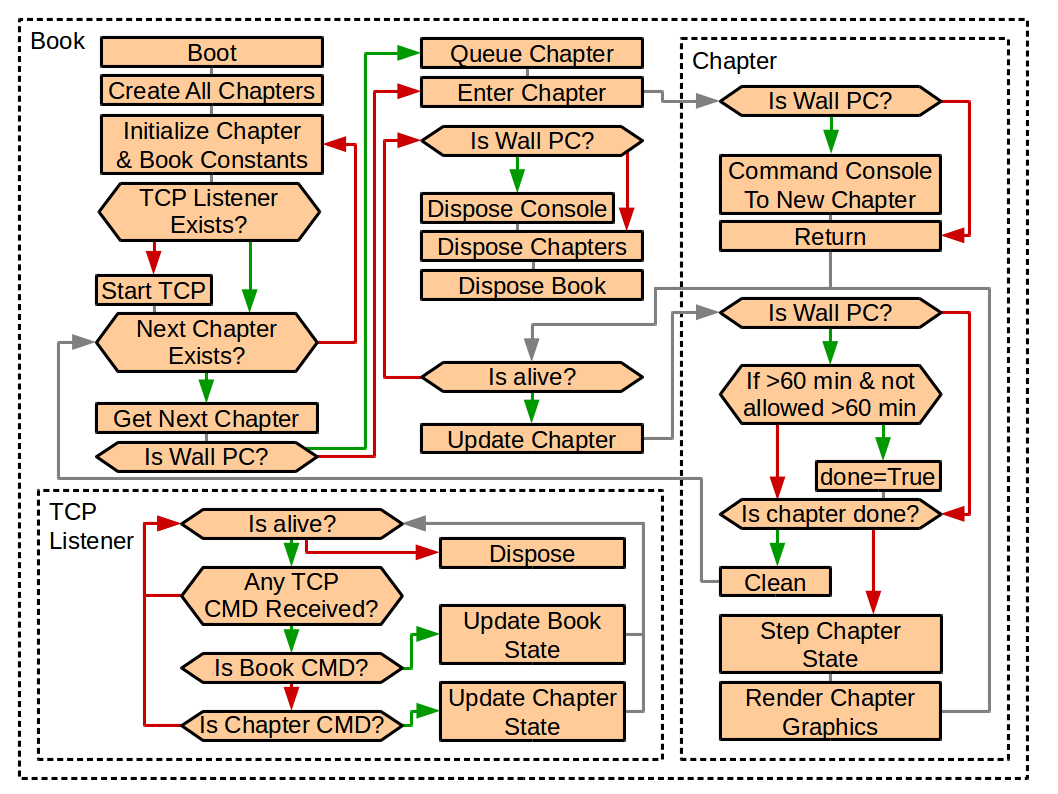
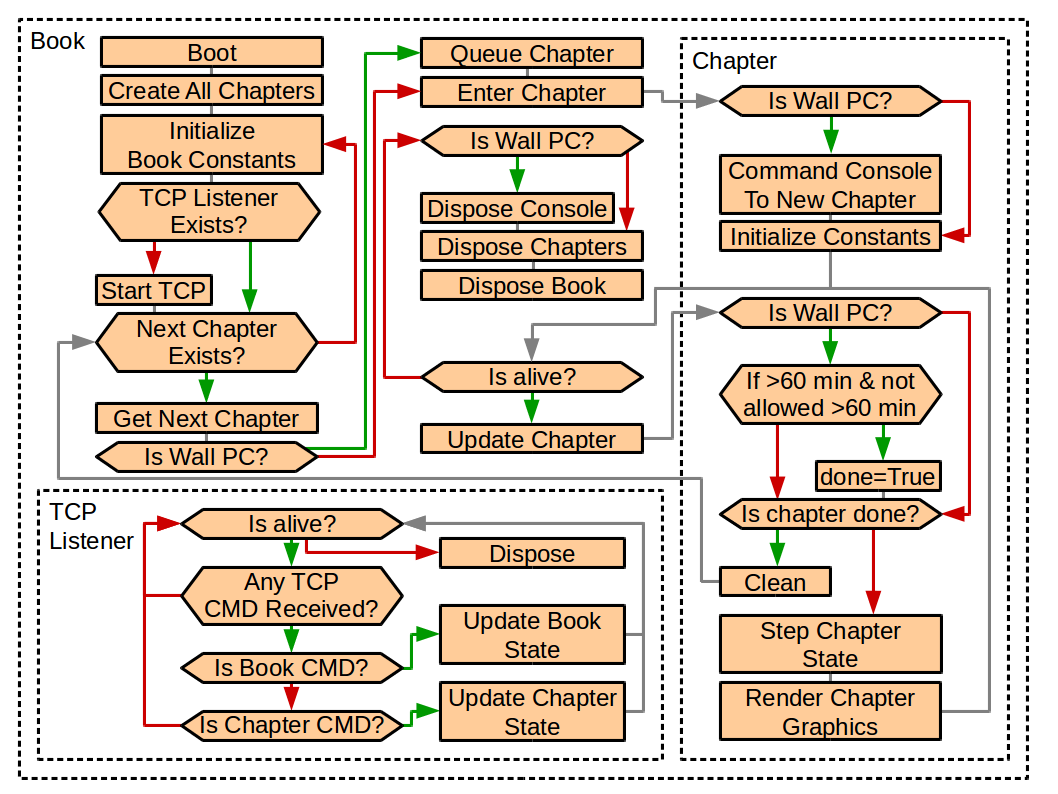
updating design

Changed region(s): [[0.6862, 0.272, 0.8733, 0.3325], [0.0936, 0.1511, 0.3119, 0.2116]]

diff --git a/resources/DESIGN.md b/resources/DESIGN.md
@@ -223,11 +223,11 @@ The following is a state transition diagram that will live on both the Wall and 
 	- **Is Book Command?** If the proctor command is formatted as a book command, it is processed.  This includes the "dispose" command which will stop both the TCP Listener and the Book threads.  "set next chapter" is another book command that the proctor can send.
 	- **Is Chapter Command?** If the proctor command is formmated as a chapter command, it is processed.  This includes the "done" command which stops the execution of the current chapter and prompts the Book state machine to proceed to the next chapter.
 - Chapter
-	- **Enter Chapter:** Every time the chapter is run, the first command is 
+	- **Enter Chapter:** Every time the chapter is run, the first command is a special boot up sequnce.  
 
 clean should be nearly idential to initialize.  used for shutting down autonomous processes cleanly like video players
 
-![State Transition Diagram](https://i.imgur.com/ZLY4JB3.png)
+![State Transition Diagram](https://raw.githubusercontent.com/scottalmond/EscapeRoom/master/resources/flow.png)
 
 # Schedule
 
